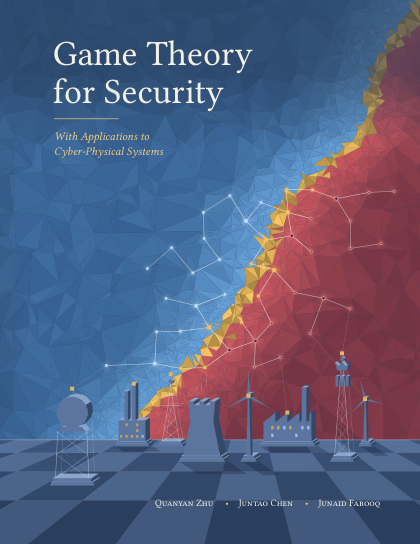
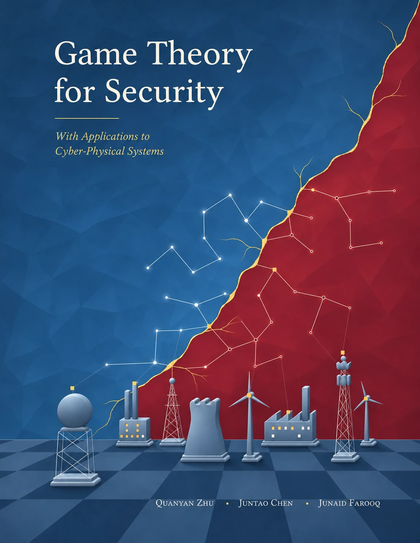
Game Theory for Security: sample chapters and new cover
Add the sample PDF (preface, contents, Chapters 1, 3, 10 and 13,
bibliography; hosted on the book site) to the book card, update the
cover, and list the sample in the sitemap.

diff --git a/index.html b/index.html
@@ -449,12 +449,14 @@
       <h3>Forthcoming</h3>
       <div class="samples">
         <article class="sample">
-          <a href="game-theory-for-security/"><img src="assets/books/game-theory-security-cover.png" alt="Cover of Game Theory for Security: With Applications to Cyber-Physical Systems" loading="lazy"></a>
+          <a href="game-theory-for-security/assets/game-theory-for-security-sample.pdf"><img src="assets/books/game-theory-security-cover.png" alt="Cover of Game Theory for Security: With Applications to Cyber-Physical Systems" loading="lazy"></a>
           <div>
             <span class="t">Game Theory for Security: With Applications to Cyber-Physical Systems</span>
             <span class="m">Quanyan Zhu, Juntao Chen and Junaid Farooq · Cambridge University Press, to appear 2027</span>
             <p>Game theory as the foundation for securing cyber-physical systems against intelligent adversaries: normal-form, Bayesian, Markov and differential games; learning, network games, mechanism design, composition of games and bounded rationality; and applications to industrial control systems, cyber deception, IoT, supply chains and next-generation wireless networks. Sixteen chapters in three parts with five appendices, with Python code that reproduces the worked examples.</p>
-            <a class="btn primary" href="game-theory-for-security/">Book website</a>
+            <p class="m">Sample: preface, full contents, Chapters 1, 3, 10 and 13, and the bibliography, 182 pages.</p>
+            <a class="btn primary" href="game-theory-for-security/assets/game-theory-for-security-sample.pdf">Sample chapters (PDF, 9.1 MB)</a>
+            <a class="btn" href="game-theory-for-security/">Book website</a>
           </div>
         </article>
       </div>
